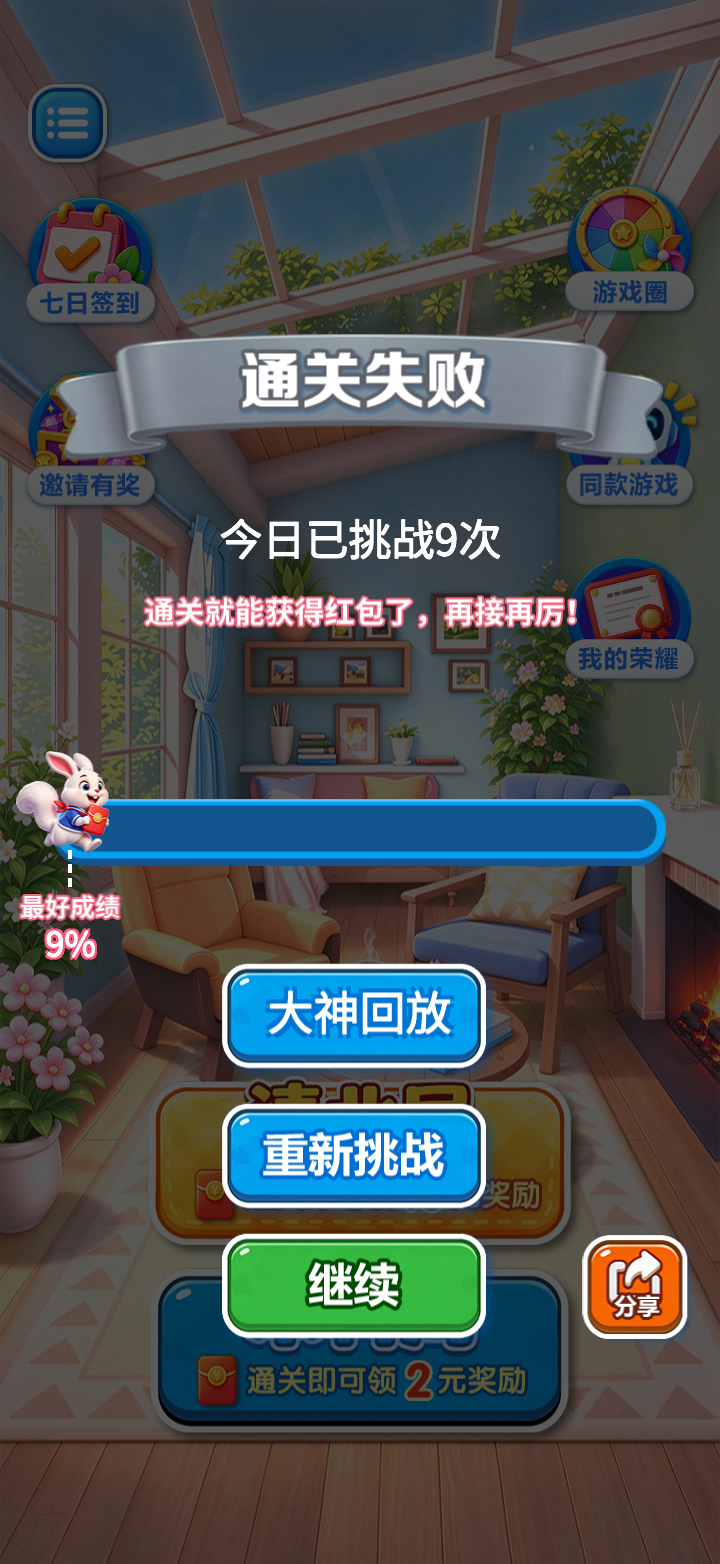
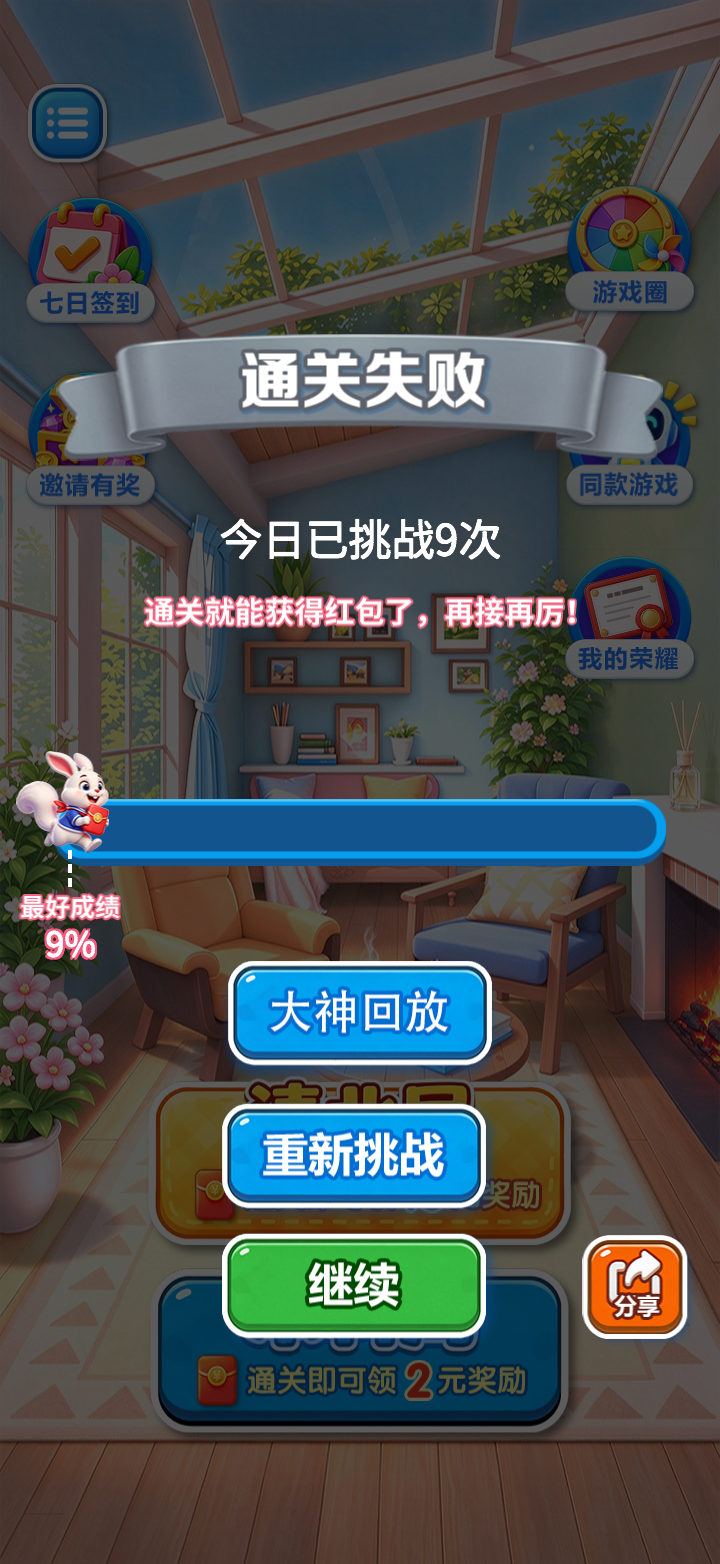
fix: clone retry button for master replay entry

Changed region(s): [[0.3056, 0.6138, 0.7028, 0.7059]]

diff --git a/Assets/Match3D/Scripts/PotMasterReplayEntry.cs b/Assets/Match3D/Scripts/PotMasterReplayEntry.cs
@@ -6,16 +6,14 @@ public sealed class PotMasterReplayEntry : MonoBehaviour {
     Button button;Match3DResultView result;string owner,date;bool refreshing;float next;
     public void Configure(Match3DResultView view){
         result=view;var retry=(RectTransform)view.primary.transform;
-        var root=PotMasterReplayView.Rect(retry.parent,"Pot master replay entry",0,0,retry.rect.width,retry.rect.height);
-        var background=root.gameObject.AddComponent<Image>();
-        background.sprite=Resources.Load<Sprite>("Match3D/RewardSkinPS/image_btn_blue02");
-        button=root.gameObject.AddComponent<Button>();button.targetGraphic=background;button.transition=view.primary.transition;button.colors=view.primary.colors;
-        button.navigation=new Navigation{mode=Navigation.Mode.None};
-        // Same original blue artwork and 46px bold lettering as the authored retry button.
-        var label=PotMasterReplayView.Label(root,"Label","大神回放",0,0,retry.rect.width,104,46);
-        label.color=Color.white;label.alignByGeometry=true;
-        var outline=label.gameObject.AddComponent<Outline>();outline.effectColor=new Color32(0,117,211,255);outline.effectDistance=new Vector2(4,-4);
-        var rect=(RectTransform)button.transform;rect.anchorMin=retry.anchorMin;rect.anchorMax=retry.anchorMax;rect.pivot=retry.pivot;
+        button=Instantiate(view.primary,retry.parent,false);
+        button.name="Pot master replay entry";
+        var background=button.GetComponent<Image>();
+        background.sprite=Resources.Load<Sprite>("Match3D/PotMasterReplaySkin/pot-failure-entry");
+        // Copy the retry button's complete visual and interaction settings.
+        // Replace its action so replay never invokes the original retry callback.
+        button.onClick=new Button.ButtonClickedEvent();
+        var rect=(RectTransform)button.transform;
         rect.anchoredPosition=retry.anchoredPosition+new Vector2(0,140);
         button.onClick.AddListener(()=>{if(owner==PotMasterReplayAccess.Account()&&date==Match3DFlow.Today){Match3DFlow.Instance.HomeClick();Match3DFlow.Instance.ShowPotMasterReplays(result);}});
         Render(false);

diff --git a/Tools/validation/PotMasterReplay/PotMasterReplayIntegration.cs b/Tools/validation/PotMasterReplay/PotMasterReplayIntegration.cs
@@ -41,6 +41,9 @@ public static class PotMasterReplayIntegration {
   var button=(Button)Get(entry,"button");Check(!button.gameObject.activeSelf,"five replays hide entry");
   Mode("ready");Set(entry,"next",0f);yield return Wait(()=>button.gameObject.activeSelf,"six or more show entry");yield return new WaitForSecondsRealtime(.8f);
   var result=entry.GetComponent<Match3DResultView>();var entryRect=(RectTransform)button.transform;var retryRect=(RectTransform)result.primary.transform;
+  Check(entryRect.sizeDelta==retryRect.sizeDelta&&entryRect.localScale==retryRect.localScale&&entryRect.anchorMin==retryRect.anchorMin&&entryRect.anchorMax==retryRect.anchorMax&&entryRect.pivot==retryRect.pivot,"entry preserves retry button layout");
+  Check(button.transition==result.primary.transition&&button.colors.Equals(result.primary.colors)&&button.navigation.Equals(result.primary.navigation),"entry preserves retry interaction styling");
+  Check(button.GetComponentsInChildren<Outline>(true).Length==result.primary.GetComponentsInChildren<Outline>(true).Length,"entry adds no offset text shadow");
   Check(entryRect.anchoredPosition.y-entryRect.rect.height*.5f>retryRect.anchoredPosition.y+retryRect.rect.height*.5f,"entry is above retry without overlap");Capture("failure",720,1564);Capture("failure-short",720,1280);
   button.onClick.Invoke();yield return Wait(()=>View()&&View().content.childCount==10,"server list renders top ten");yield return new WaitForSecondsRealtime(.5f);
   Capture("list-long",720,1564);Capture("list-short",720,1280);Capture("list-tablet",768,1024);

diff --git a/docs/validation/pot-master-replay/README.md b/docs/validation/pot-master-replay/README.md
@@ -32,4 +32,4 @@
 
 用户明确入口应位于失败后的重新挑战按钮上方。入口与重新挑战之间保留间距，入口显示时进度轨道及最高进度标记整体上移 90，入口隐藏时还原。打开列表后未播放直接关闭，恢复同一个失败弹窗，保留原重新挑战回调。
 
-失败页入口复用已有 `RewardSkinPS/image_btn_blue02` 原稿底图，与「重新挑战」同为 282×123；文字使用 46 号白色粗体、4 像素蓝色描边，并按按钮面居中。入口中心在重新挑战上方 140，保留按钮间距。已重新截图和通过完整集成验证。
+失败页入口直接 Instantiate 复制重新挑战 Button，保留 RectTransform、Image、Button 设置；只替换文字底图、位置及点击回调，不再叠加运行时 Outline。完整回归验证复制后的尺寸、缩放、锚点、过渡、颜色和导航设置一致，打开回放后关闭仍恢复原失败页面。
